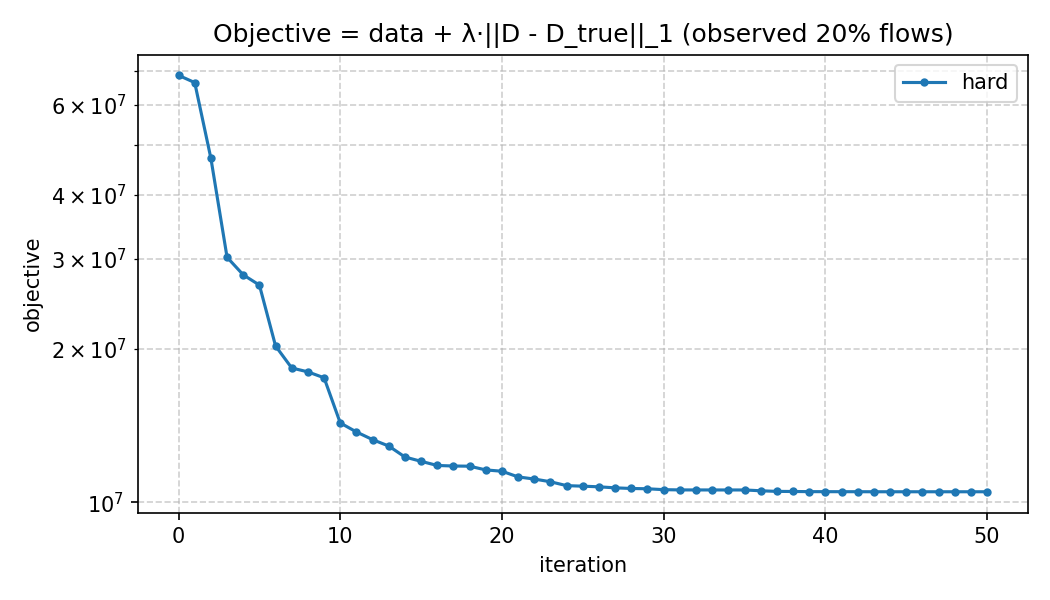
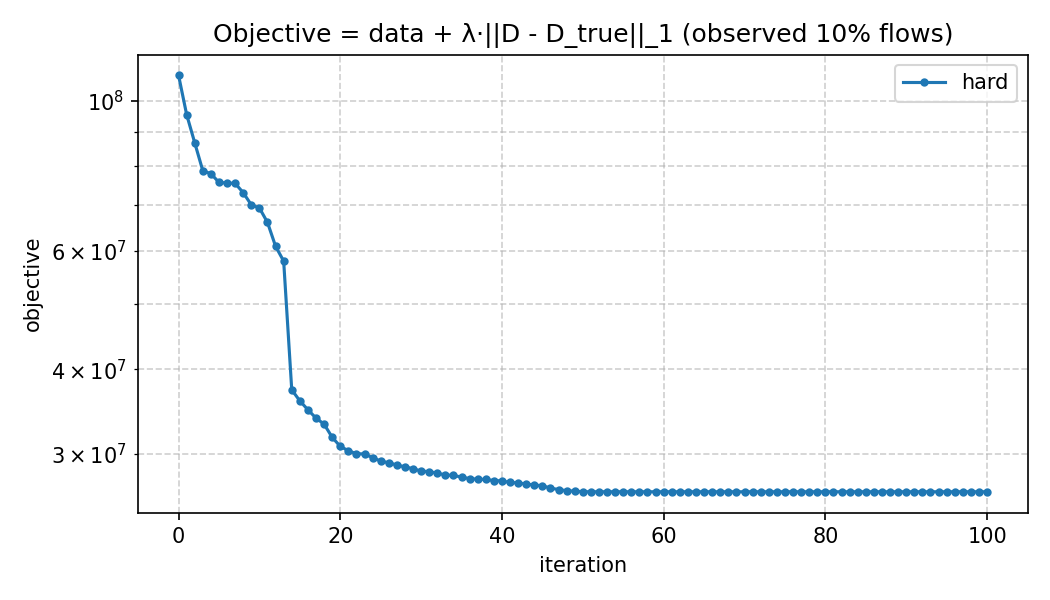
Update sensor placement and experiment parameters in L1 completion
Modified main_l1.py to select top-10 flow entries for sensor placement instead of random masking. Adjusted observed_fraction, number of iterations, and reference_noise_level for experiments. Commented out debug print in mirror_descent_completion_l1.py. Updated result plots to reflect new experiment settings.

diff --git a/main_l1.py b/main_l1.py
@@ -73,10 +73,15 @@ def run_completion_l1(
 
     flow_ref = fw_beckmann_flow(csr, edge_cost, D_true, **fw_hard_kwargs)
 
-    rng_mask = np.random.default_rng(int(mask_seed))
-    mask = (rng_mask.random(flow_ref.shape) < float(observed_fraction)).astype(np.float64)
-    if mask.sum() == 0:
-        mask[0] = 1.0
+    # rng_mask = np.random.default_rng(int(mask_seed))
+    # mask = (rng_mask.random(flow_ref.shape) < float(observed_fraction)).astype(np.float64)
+    # if mask.sum() == 0:
+    #     mask[0] = 1.0
+
+    # можно тут играться с тем куда ставить датчики
+    indexes = np.argsort(flow_ref)
+    mask = np.zeros(flow_ref.shape)
+    mask[indexes[-10:]] = 1
 
     f_hat = flow_ref.copy()
     if float(flow_noise_level) > 0.0:
@@ -174,17 +179,17 @@ def main():
         beta=4,
     )
 
-    observed_fraction = 0.2
+    observed_fraction = 0.1
     modes = ("hard",)
 
     results = run_completion_l1(
         D_true,
         modes,
         csr=graph,
-        n_iters=50,
+        n_iters=100,
         edge_cost=edge_cost,
         observed_fraction=float(observed_fraction),
-        reference_noise_level=0.00,
+        reference_noise_level=0.3,
         reg_lambda=5e2,
     )
 

diff --git a/mirror_descent_completion_l1.py b/mirror_descent_completion_l1.py
@@ -117,7 +117,7 @@ def mirror_descent_completion_l1(
         u, Sigma, v = np.linalg.svd(D_reference)
         Sigma[2:-1] = Sigma[2:-1] * 2
         Sigma[-1]=0
-        print(Sigma)
+        # print(Sigma)
         D_est = project_to_marginals_masked(u @ np.diag(Sigma) @ v, L_ref, W_ref, allowed)
         print("D_est - D_reference = ", np.linalg.norm(D_est - D_reference, ord=1) / np.linalg.norm(D_reference, ord=1))
     else:
